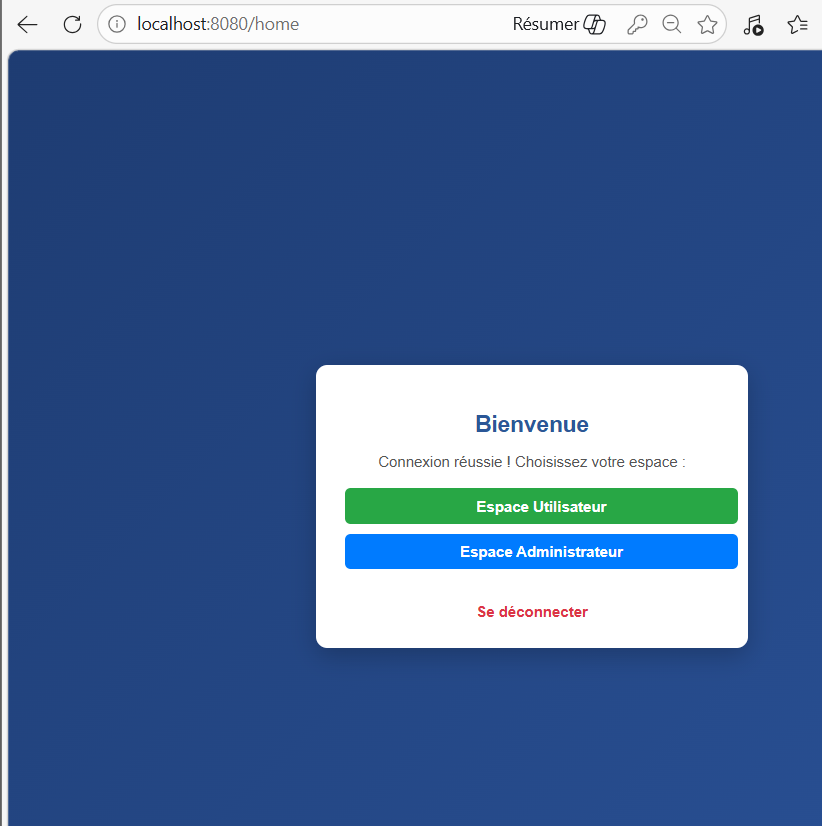
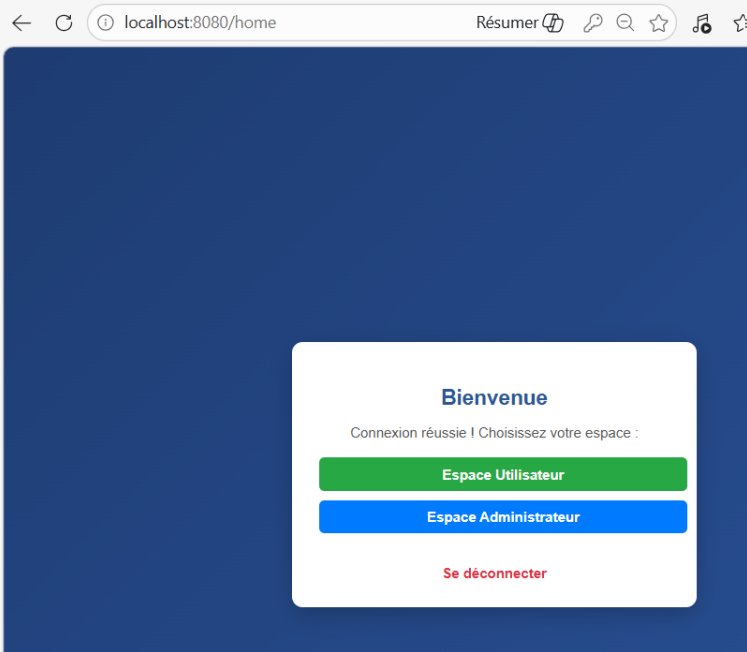
modifier screens

Changed region(s): [[0.3695, 0.4294, 0.9545, 0.9509], [0.0, 0.0, 1.0, 1.0]]

diff --git a/README.md b/README.md
@@ -20,19 +20,19 @@
 ![](./screens/home.png)
 ---
 ## Mauvise mot de passe
-![](./screens/msg_erreu.png)
+![](./screens/msg_erreur.png)
 ---
 ## Connection user vers /user/dashboard
-![](./screens/user_to_user.png)
+![](./screens/user_user.png)
 ---
 ## Connection user à /admin/dashboard
-![](./screens/user_to_admin.png)
+![](./screens/user_admin.png)
 ---
 ## Connection admin vers /admin/dashboard
-![](./screens/admin_to_admin.png)
+![](./screens/admin_admin.png)
 ---
 ## Connction admin à /user/dashboard
-![](./screens/admin_to_user.png)
+![](./screens/admin_user.png)
 ---
 ## Déconnexion
 ![](./screens/logout.png)
